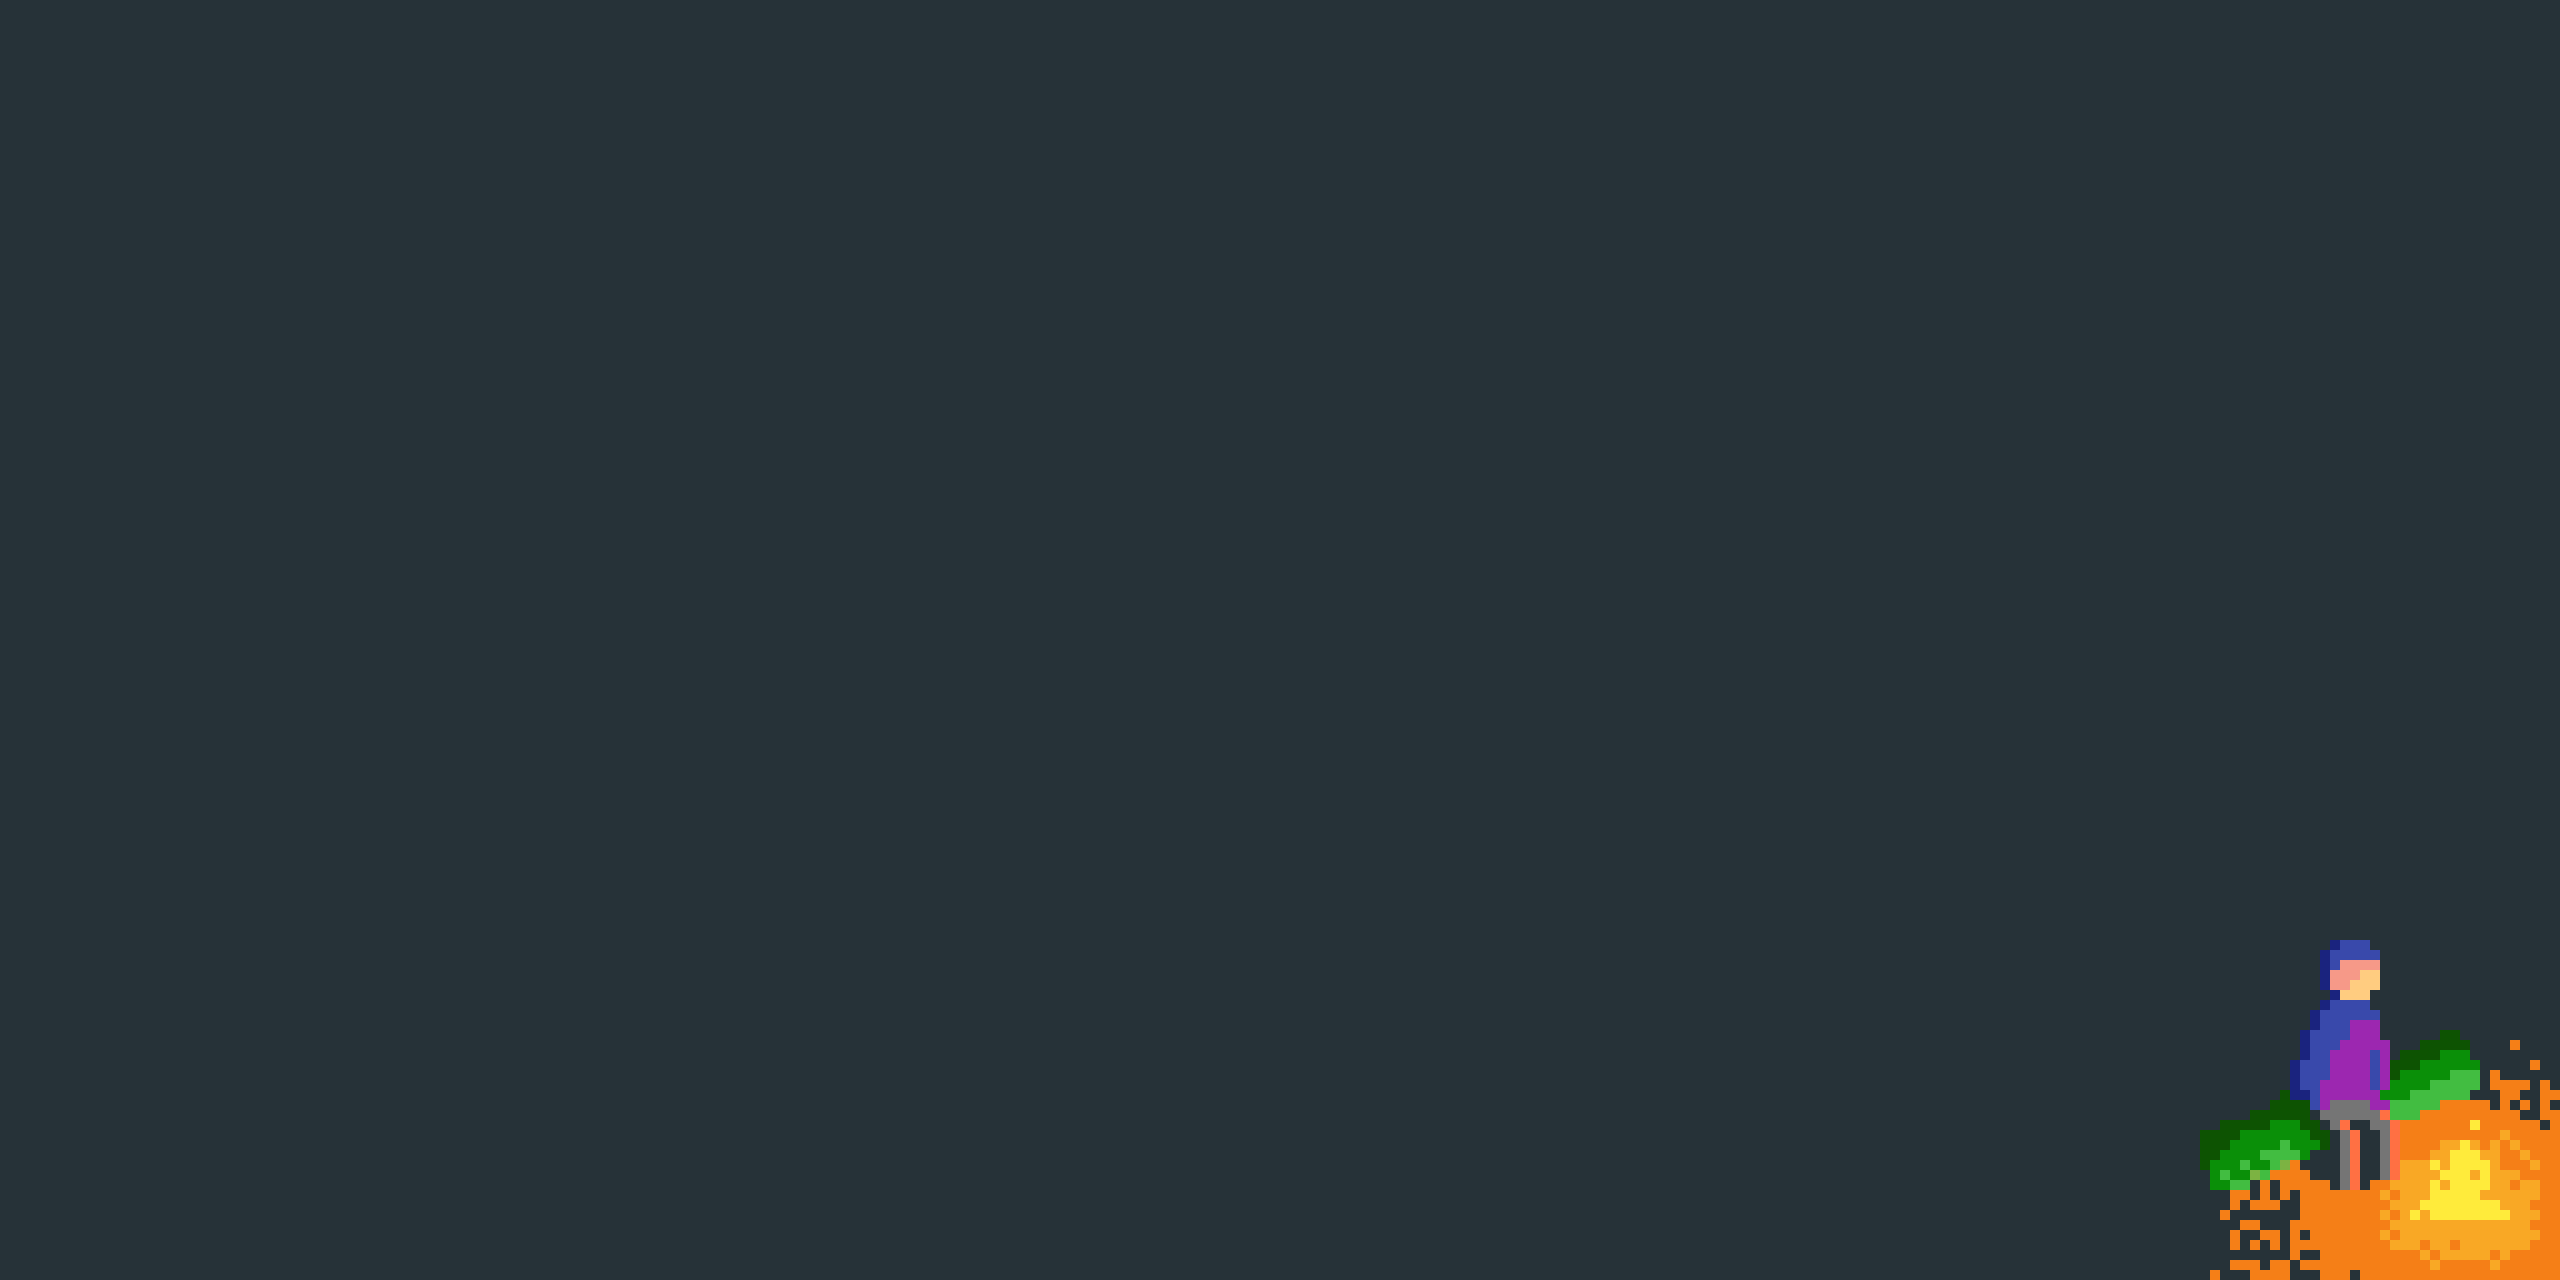
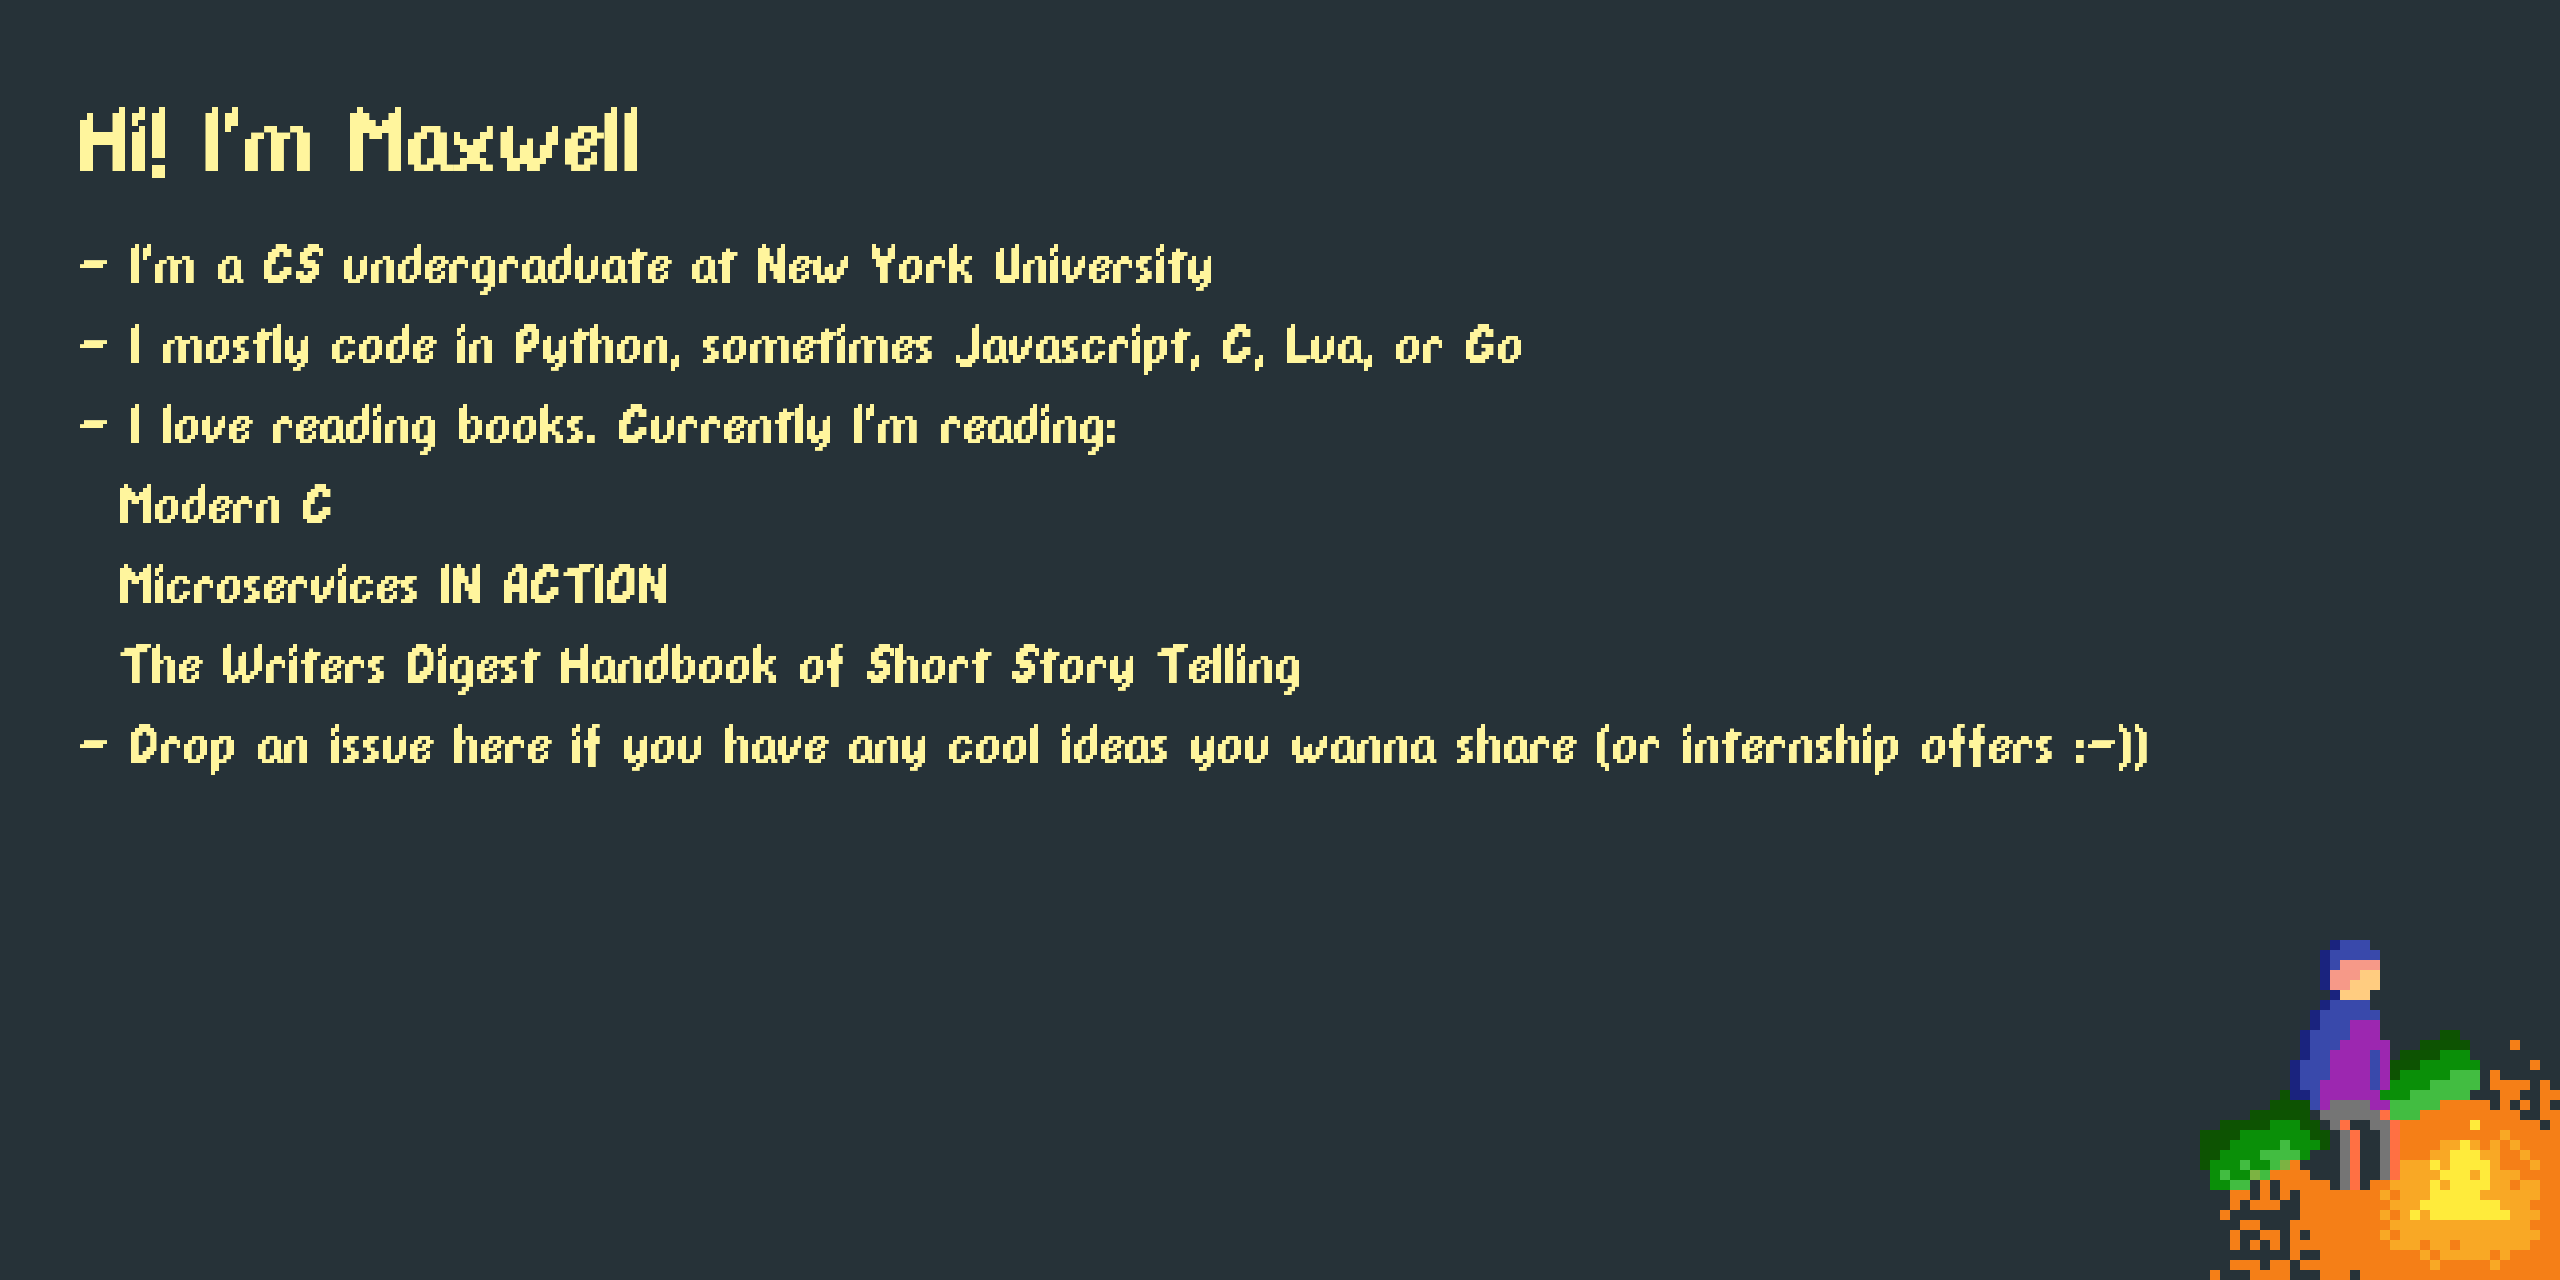
ADD generation script and generated github profile scene

diff --git a/generate_profile_scene.py b/generate_profile_scene.py
@@ -1,0 +1,30 @@
+from PIL import Image, ImageFont, ImageDraw
+
+FONT_COLOR = (255, 245, 157)
+
+template = Image.open("github_profile_scene_template.png")
+heading_font = ImageFont.truetype('dpcomic/dpcomic.ttf', 100)
+content_font = ImageFont.truetype('dpcomic/dpcomic.ttf', 60)
+
+heading = "Hi! I'm Maxwell"
+content = [
+    "- I'm a CS undergraduate at New York University",
+    "- I mostly code in Python, sometimes Javascript, C, Lua, or Go",
+    "- I love reading books. Currently I'm reading:",
+    "  Modern C",
+    "  Microservices IN ACTION",
+    "  The Writers Digest Handbook of Short Story Telling",
+    "- Drop an issue here if you have any cool ideas you wanna share (or internship offers :-))"
+]
+
+image_editable = ImageDraw.Draw(template)
+image_editable.text((80, 100), heading, FONT_COLOR, font=heading_font)
+for i in range(len(content)):
+    image_editable.text(
+        (80, 240 + i*80),
+        content[i],
+        FONT_COLOR,
+        font=content_font
+    )
+
+template.save("github_profile_scene.png")

diff --git a/Old_README.md b/Old_README.md
@@ -1,5 +1,5 @@
 # Hi! I'm Maxwell
-- I'm a CS undergraduate in New York University
+- I'm a CS undergraduate at New York University
 - I mostly code in Python, sometimes Javascript, C or Go
 - I've been reading "The Amazing Spider-man" comics from the 60s. Sometimes I play chess and draw stuff(amateur level).
 - Drop an issue here if you have any cool ideas you wanna share (or internship offers 👻 )

diff --git a/README.md b/README.md
@@ -1,2 +1,1 @@
-Work In Progress...
 ![](github_profile_scene.png)
